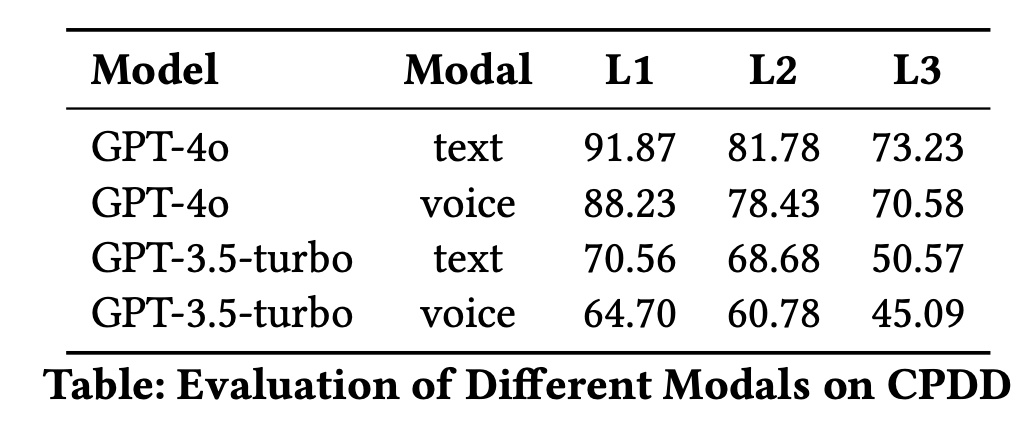
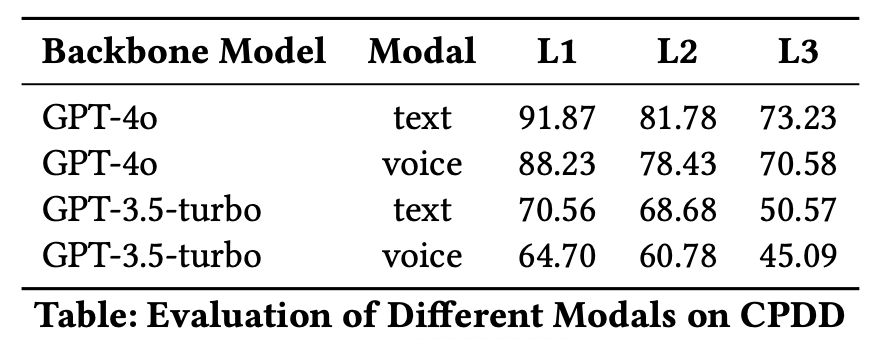
readme unpdate

diff --git a/appendix/README.md b/appendix/README.md
@@ -41,7 +41,9 @@ We utilized GPT-4 to transform structured EHRs into natural, multi-turn dialogue
 The evaluation results revealed that the STT module successfully captured the majority of medical terminology while preserving some natural language variations and speech patterns. The LLM component demonstrated robust error tolerance, maintaining reasonable diagnostic accuracy despite potential transcription errors. Notably, the system maintained consistent diagnostic accuracy regardless of the input format (text vs. speech), suggesting that the LLM's strong language understanding capabilities effectively compensated for any STT-related errors. It's important to note that this evaluation focused solely on disease diagnosis accuracy, independent of the STT module's performance metrics. The results indicate that MedRAG maintains high diagnostic accuracy even when operating on speech-transcribed inputs, highlighting its resilience to minor transcription errors and its suitability for voice-based clinical interaction.
 
 ## Appendix C. Doctor Evaluation
-We conducted a comparative human evaluation where four experienced doctors reviewed system functionability and outputs from MedRAG and GPT-4o on two clinical modules: EHR analysis, and conversation monitoring. The table below shows the five human factors criteria and specific questions.
+We conducted a comparative human evaluation where four experienced doctors reviewed system UI, functionability and outputs from MedRAG and GPT-4o on EHR analysis and medical consultation analysis. 
+
+The table below shows the five human factors criteria and specific questions.
 
 <div align="center"> <img src="./Fig/def.png" alt="clustering" width="650"> </div >
 
